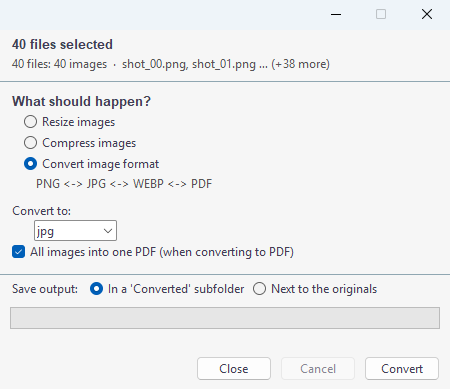
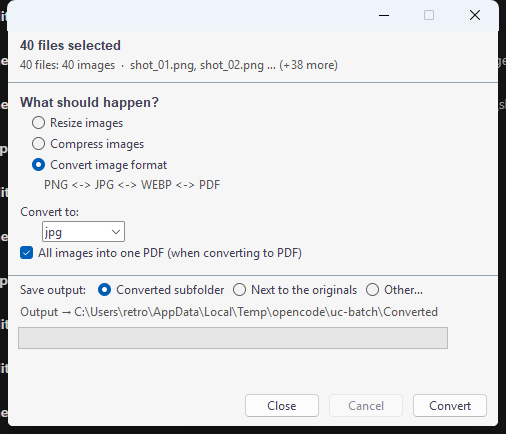
Update the walkthrough screenshots for the new dialog

Changed region(s): [[0.0, 0.0, 1.0, 1.0], [0.8711, 0.7404, 0.9022, 0.8021], [0.7467, 0.0308, 0.7778, 0.0617]]

diff --git a/README.md b/README.md
@@ -80,15 +80,17 @@ The other platforms work the same way, just wherever their menu puts it.
    ![Windows context menu with Convert With... in it](docs/step1-menu.png)
 
 2. One dialog for the whole batch. Pick what should happen, pick where the
-   output lands, hit Convert. Here it's a folder of 40 PNGs going to JPG.
+   output lands - it shows you the exact folder before anything is written,
+   or send it somewhere else entirely - hit Convert. Here it's a folder of
+   40 PNGs going to JPG.
 
-   ![Dialog: 40 files selected, Convert image format, output to a Converted subfolder](docs/step2-options.png)
+   ![Dialog: 40 PNGs selected, converting to JPG, output folder shown](docs/step2-options.png)
 
 3. It works through them one at a time, telling you which file it's on and
    how far along you are. Changed your mind? **Cancel** stops it after the
    file it's already doing.
 
-   ![Progress bar at 40%, converting shot_15.png](docs/step3-progress.png)
+   ![Progress: 9 of 40 files done, converting shot_09.png](docs/step3-progress.png)
 
 4. When the bar fills up, the status line goes green.
 
@@ -97,7 +99,7 @@ The other platforms work the same way, just wherever their menu puts it.
 5. Then you get a per-file list - every file, in your own order, with the
    output name next to it. If something didn't work out you see the actual
    reason on that line instead of a bare ✗, plus an **Open log** button for
-   the full story.
+   the full story and **Copy all** if you just want the list.
 
    ![Results window listing every converted file](docs/step5-results.png)
 
